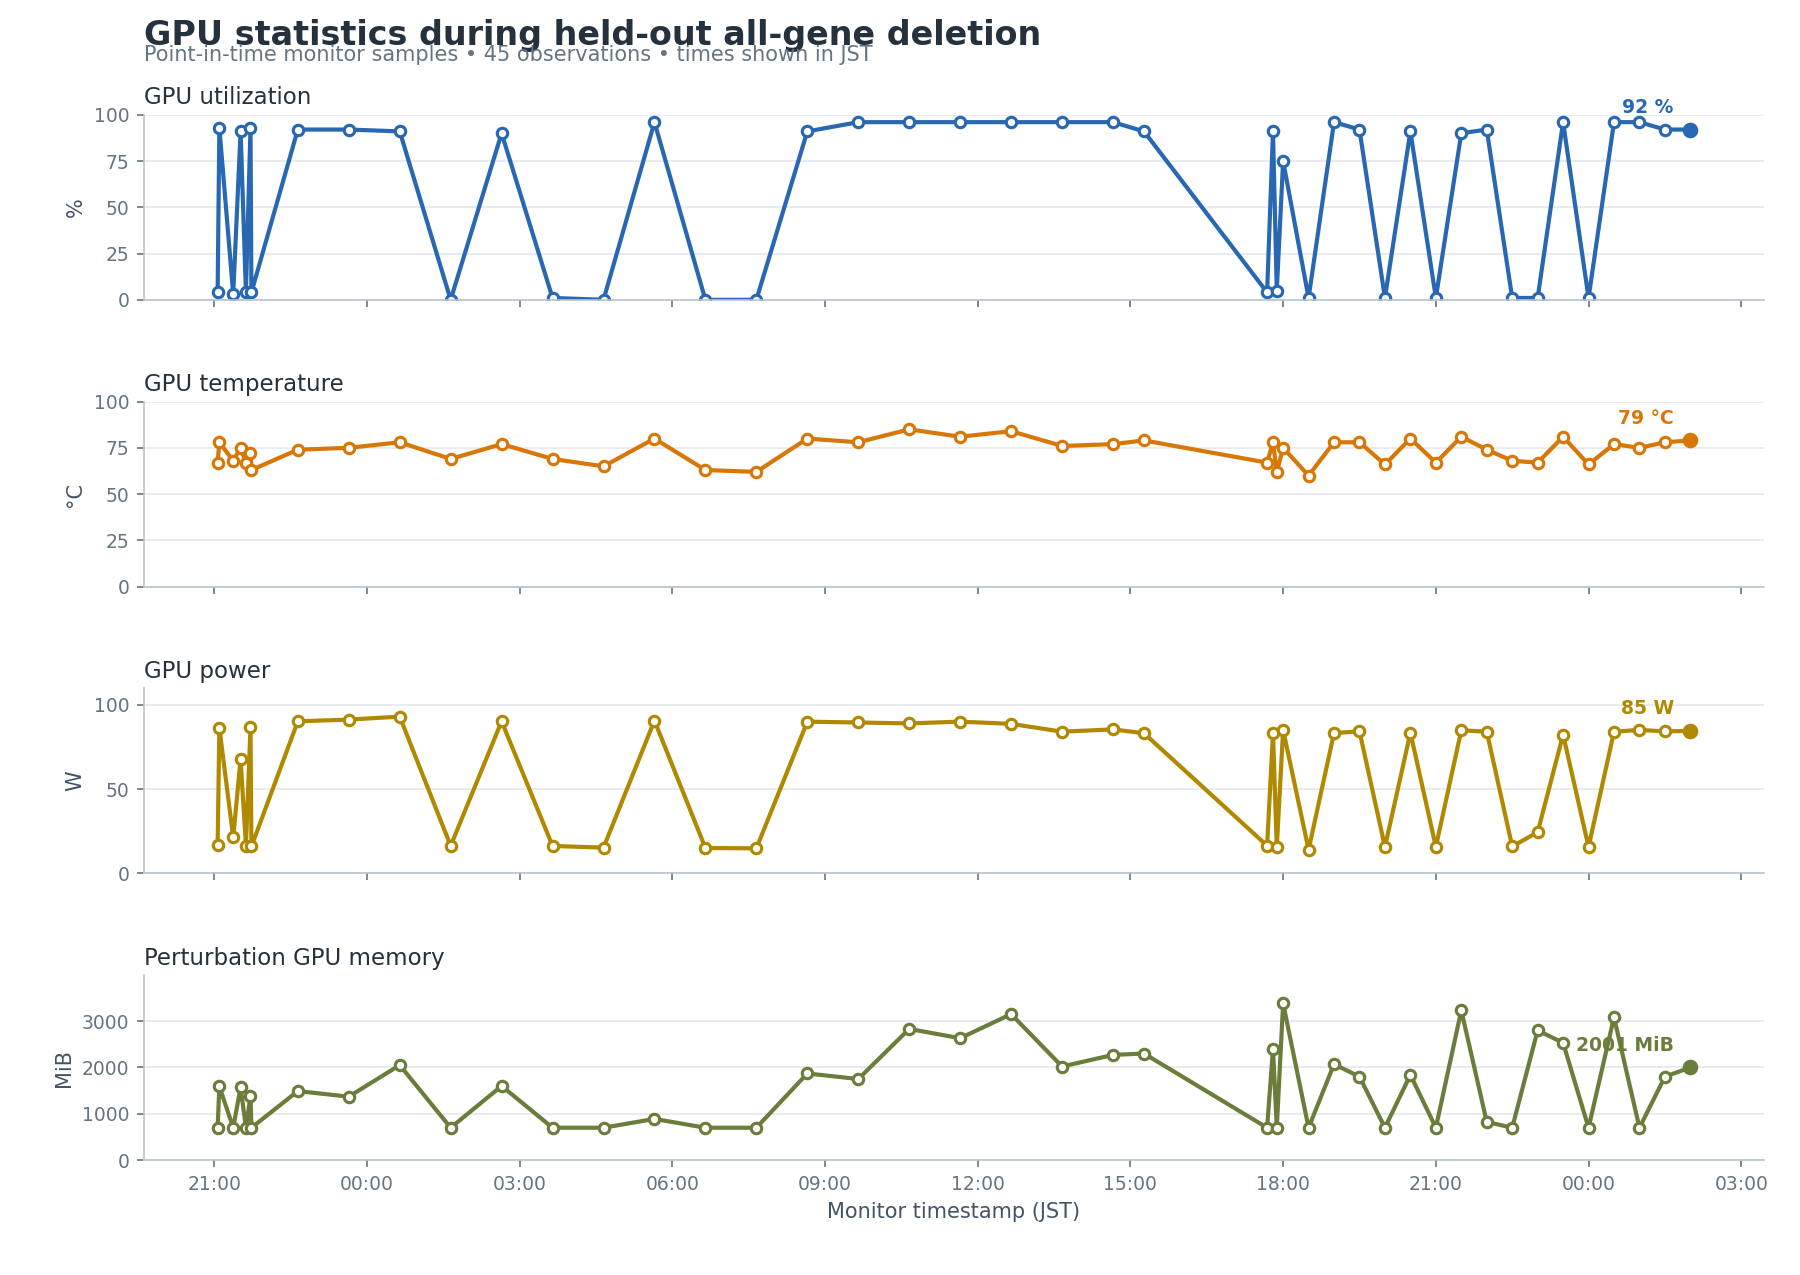
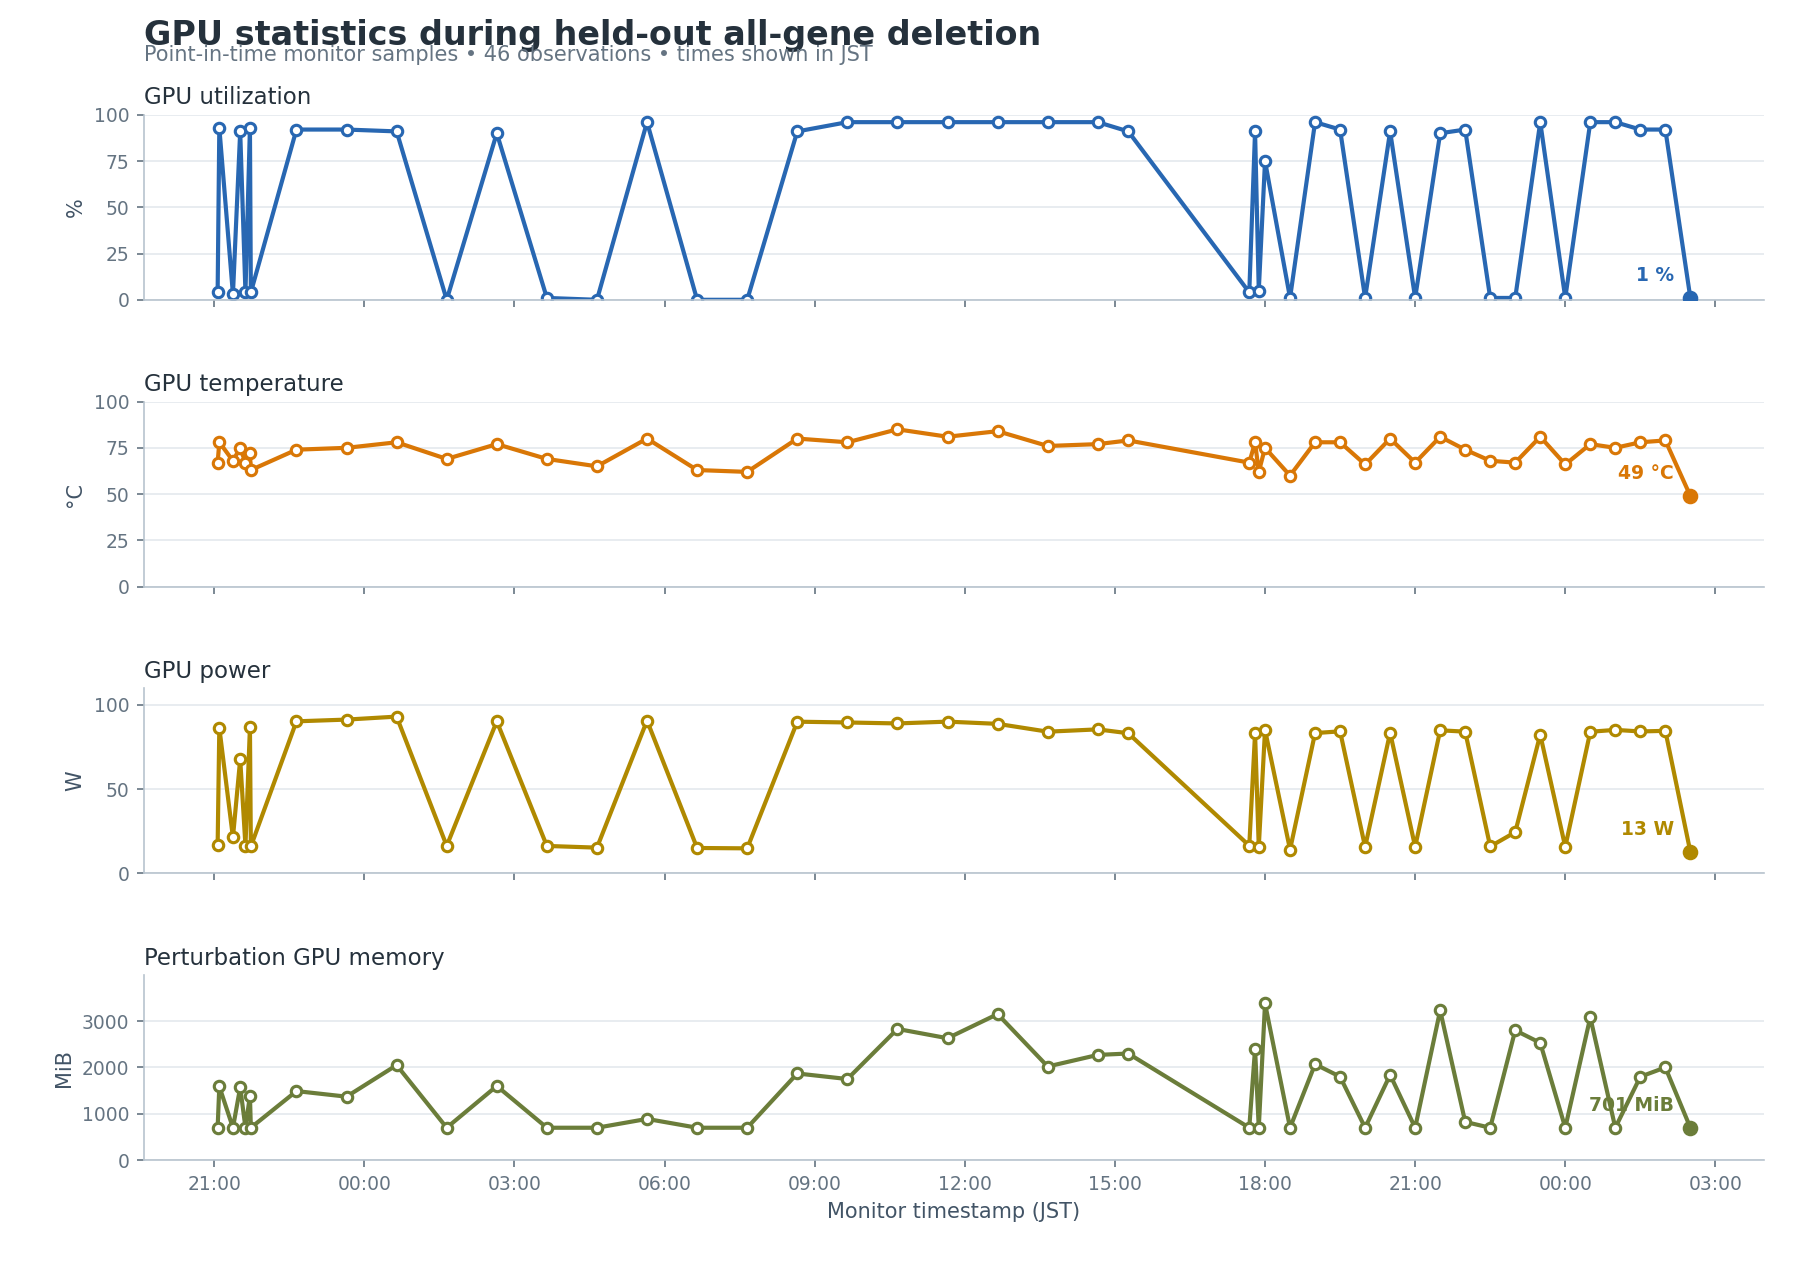
monitor: update perturbation status 2026-07-19 02:30 JST

diff --git a/current_workflow/monitoring/GPU_PROGRESS_REPORT.md b/current_workflow/monitoring/GPU_PROGRESS_REPORT.md
@@ -15,6 +15,7 @@ Newest refreshes are appended at the top and retained for the most recent
 48 runs.
 
 <!-- JOB_RUN_SUMMARIES_START -->
+- **2026-07-19T02:30:01+09:00** — RUNNING; 3,379 / 3,379 cells (100.00%). The run advanced by 22 cells and 2 shards, lifting completion from 99.35% to 100.00%. LUSC remained complete; LUAD remained complete; NORMAL finished; GPU utilization fell from 92% to 1%.
 - **2026-07-19T02:00:01+09:00** — RUNNING; 3,357 / 3,379 cells (99.35%). The run advanced by 50 cells and 2 shards, lifting completion from 97.87% to 99.35%. LUSC remained complete; LUAD remained complete; NORMAL moved from 1,336 to 1,386 cells; GPU utilization stayed at 92%.
 - **2026-07-19T01:30:01+09:00** — RUNNING; 3,307 / 3,379 cells (97.87%). The run advanced by 43 cells and 2 shards, lifting completion from 96.60% to 97.87%. LUSC remained complete; LUAD remained complete; NORMAL moved from 1,293 to 1,336 cells; GPU utilization fell from 96% to 92%.
 - **2026-07-19T01:00:01+09:00** — RUNNING; 3,264 / 3,379 cells (96.60%). The run advanced by 43 cells and 1 shards, lifting completion from 95.32% to 96.60%. LUSC remained complete; LUAD remained complete; NORMAL moved from 1,250 to 1,293 cells; GPU utilization stayed at 96%.
@@ -39,20 +40,20 @@ Newest refreshes are appended at the top and retained for the most recent
 
 ## Current snapshot
 
-**What changed since the prior report:** The run advanced by 50 cells and 2 shards, lifting completion from 97.87% to 99.35%. LUSC remained complete; LUAD remained complete; NORMAL moved from 1,336 to 1,386 cells; GPU utilization stayed at 92%.
+**What changed since the prior report:** The run advanced by 22 cells and 2 shards, lifting completion from 99.35% to 100.00%. LUSC remained complete; LUAD remained complete; NORMAL finished; GPU utilization fell from 92% to 1%.
 
 | Metric | Value |
 | --- | --- |
-| Generated | 2026-07-19T02:00:01+09:00 |
+| Generated | 2026-07-19T02:30:01+09:00 |
 | Run status | RUNNING |
-| Overall cell progress | 3,357 / 3,379 (99.35%) |
+| Overall cell progress | 3,379 / 3,379 (100.00%) |
 | GPU | NVIDIA GB10 |
-| GPU utilization | 92% |
-| GPU temperature | 79 C |
-| GPU power | 84.6 W |
-| Perturbation GPU memory | 2,001 MiB |
-| System memory used | 39.8 GiB |
-| System memory available | 79.9 GiB |
+| GPU utilization | 1% |
+| GPU temperature | 49 C |
+| GPU power | 12.8 W |
+| Perturbation GPU memory | 701 MiB |
+| System memory used | 39.5 GiB |
+| System memory available | 80.2 GiB |
 | Swap used | 0.0 GiB |
 
 ### Progress by source
@@ -61,20 +62,20 @@ Newest refreshes are appended at the top and retained for the most recent
 | --- | --- | --- | --- | --- |
 | LUSC | 560 / 560 (100.00%) | 23 / 23 | 1,120 | 348,313 / 348,313 |
 | LUAD | 1,411 / 1,411 (100.00%) | 57 / 57 | 2,822 | 1,150,097 / 1,150,097 |
-| NORMAL | 1,386 / 1,408 (98.44%) | 55 / 57 | 2,790 | 1,405,088 / 1,439,366 |
+| NORMAL | 1,408 / 1,408 (100.00%) | 57 / 57 | 2,834 | 1,439,366 / 1,439,366 |
 
 ## Final statistical comparisons
 
-**0 / 6 comparisons are complete. Final aggregation waits for the deletion screen, currently 135 / 137 shards.**
+**3 / 6 comparisons are complete. The remaining comparison jobs are queued or running.**
 
 | Comparison | State | Result rows | Updated | Output |
 | --- | --- | --- | --- | --- |
-| LUSC → NORMAL | WAITING FOR PERTURBATION | — | — | `heldout_allgene_lusc_to_normal.csv` |
-| LUSC → LUAD | WAITING FOR PERTURBATION | — | — | `heldout_allgene_lusc_to_luad.csv` |
-| LUAD → NORMAL | WAITING FOR PERTURBATION | — | — | `heldout_allgene_luad_to_normal.csv` |
-| LUAD → LUSC | WAITING FOR PERTURBATION | — | — | `heldout_allgene_luad_to_lusc.csv` |
-| NORMAL → LUAD | WAITING FOR PERTURBATION | — | — | `heldout_allgene_normal_to_luad.csv` |
-| NORMAL → LUSC | WAITING FOR PERTURBATION | — | — | `heldout_allgene_normal_to_lusc.csv` |
+| LUSC → NORMAL | COMPLETE | 11,242 | 2026-07-19T02:22:21+09:00 | `heldout_allgene_lusc_to_normal.csv` |
+| LUSC → LUAD | COMPLETE | 11,242 | 2026-07-19T02:17:15+09:00 | `heldout_allgene_lusc_to_luad.csv` |
+| LUAD → NORMAL | QUEUED / RUNNING | — | — | `heldout_allgene_luad_to_normal.csv` |
+| LUAD → LUSC | COMPLETE | 13,458 | 2026-07-19T02:28:35+09:00 | `heldout_allgene_luad_to_lusc.csv` |
+| NORMAL → LUAD | QUEUED / RUNNING | — | — | `heldout_allgene_normal_to_luad.csv` |
+| NORMAL → LUSC | QUEUED / RUNNING | — | — | `heldout_allgene_normal_to_lusc.csv` |
 
 Result-row counts confirm artifact generation only; they do not establish
 biological significance. Gene rankings should be interpreted only after all
@@ -90,6 +91,7 @@ The history table below shows the newest samples first.
 
 | Timestamp | Cells | Progress | GPU util | Temp | Power | Shards |
 | --- | --- | --- | --- | --- | --- | --- |
+| 2026-07-19T02:30:01+09:00 | 3,379 | 100.00% | 1% | 49 C | 12.8 W | 137 |
 | 2026-07-19T02:00:01+09:00 | 3,357 | 99.35% | 92% | 79 C | 84.6 W | 135 |
 | 2026-07-19T01:30:01+09:00 | 3,307 | 97.87% | 92% | 78 C | 84.3 W | 133 |
 | 2026-07-19T01:00:01+09:00 | 3,264 | 96.60% | 96% | 75 C | 85.2 W | 131 |
@@ -97,7 +99,6 @@ The history table below shows the newest samples first.
 | 2026-07-19T00:00:01+09:00 | 3,166 | 93.70% | 1% | 66 C | 15.8 W | 127 |
 | 2026-07-18T23:30:01+09:00 | 3,124 | 92.45% | 96% | 81 C | 82.4 W | 126 |
 | 2026-07-18T23:00:01+09:00 | 3,075 | 91.00% | 1% | 67 C | 24.5 W | 124 |
-| 2026-07-18T22:30:01+09:00 | 3,032 | 89.73% | 1% | 68 C | 16.0 W | 122 |
 
 ## Job notes
 
@@ -112,4 +113,4 @@ The history table below shows the newest samples first.
 
 One final diagram is appended for each source after its perturbation screen completes. Cell totals are shown explicitly.
 
-<table><tbody><tr><td align="center" valign="top"><img src="disease_completion/lusc_complete.svg" alt="LUSC perturbation complete" width="360"/></td><td align="center" valign="top"><img src="disease_completion/luad_complete.svg" alt="LUAD perturbation complete" width="360"/></td></tr></tbody></table>
+<table><tbody><tr><td align="center" valign="top"><img src="disease_completion/lusc_complete.svg" alt="LUSC perturbation complete" width="360"/></td><td align="center" valign="top"><img src="disease_completion/luad_complete.svg" alt="LUAD perturbation complete" width="360"/></td><td align="center" valign="top"><img src="disease_completion/normal_complete.svg" alt="NORMAL perturbation complete" width="360"/></td></tr></tbody></table>
